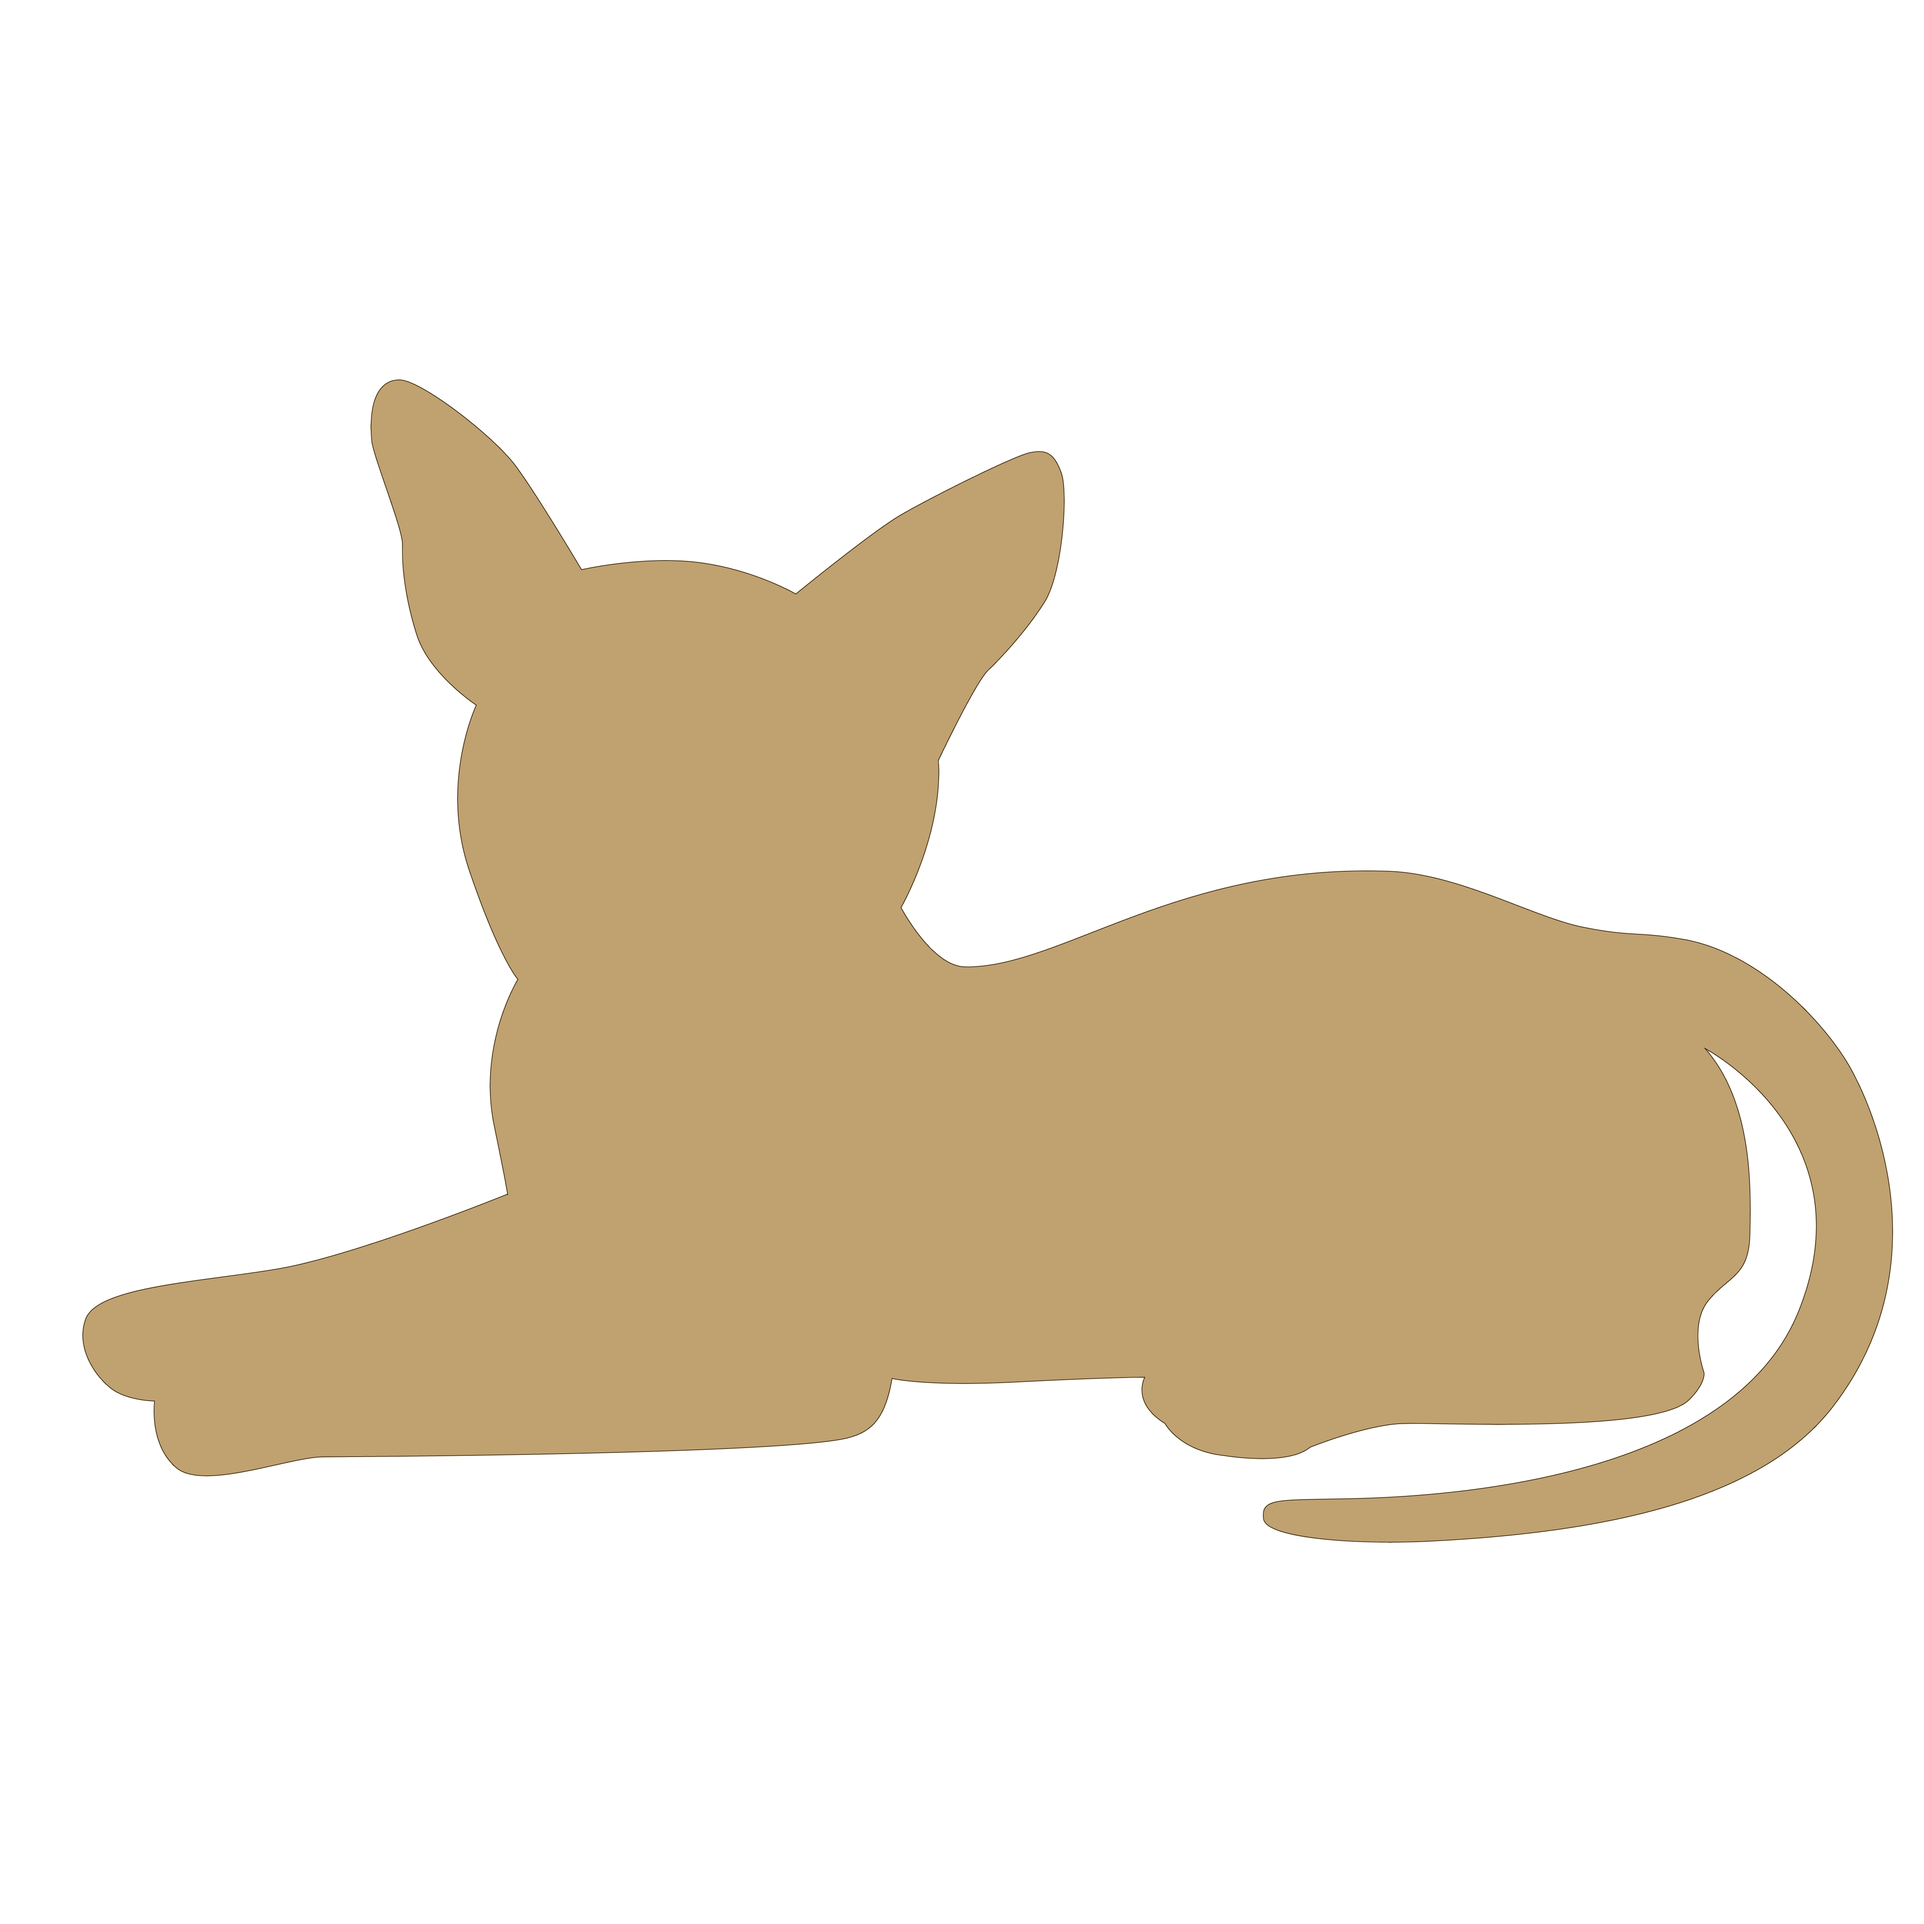
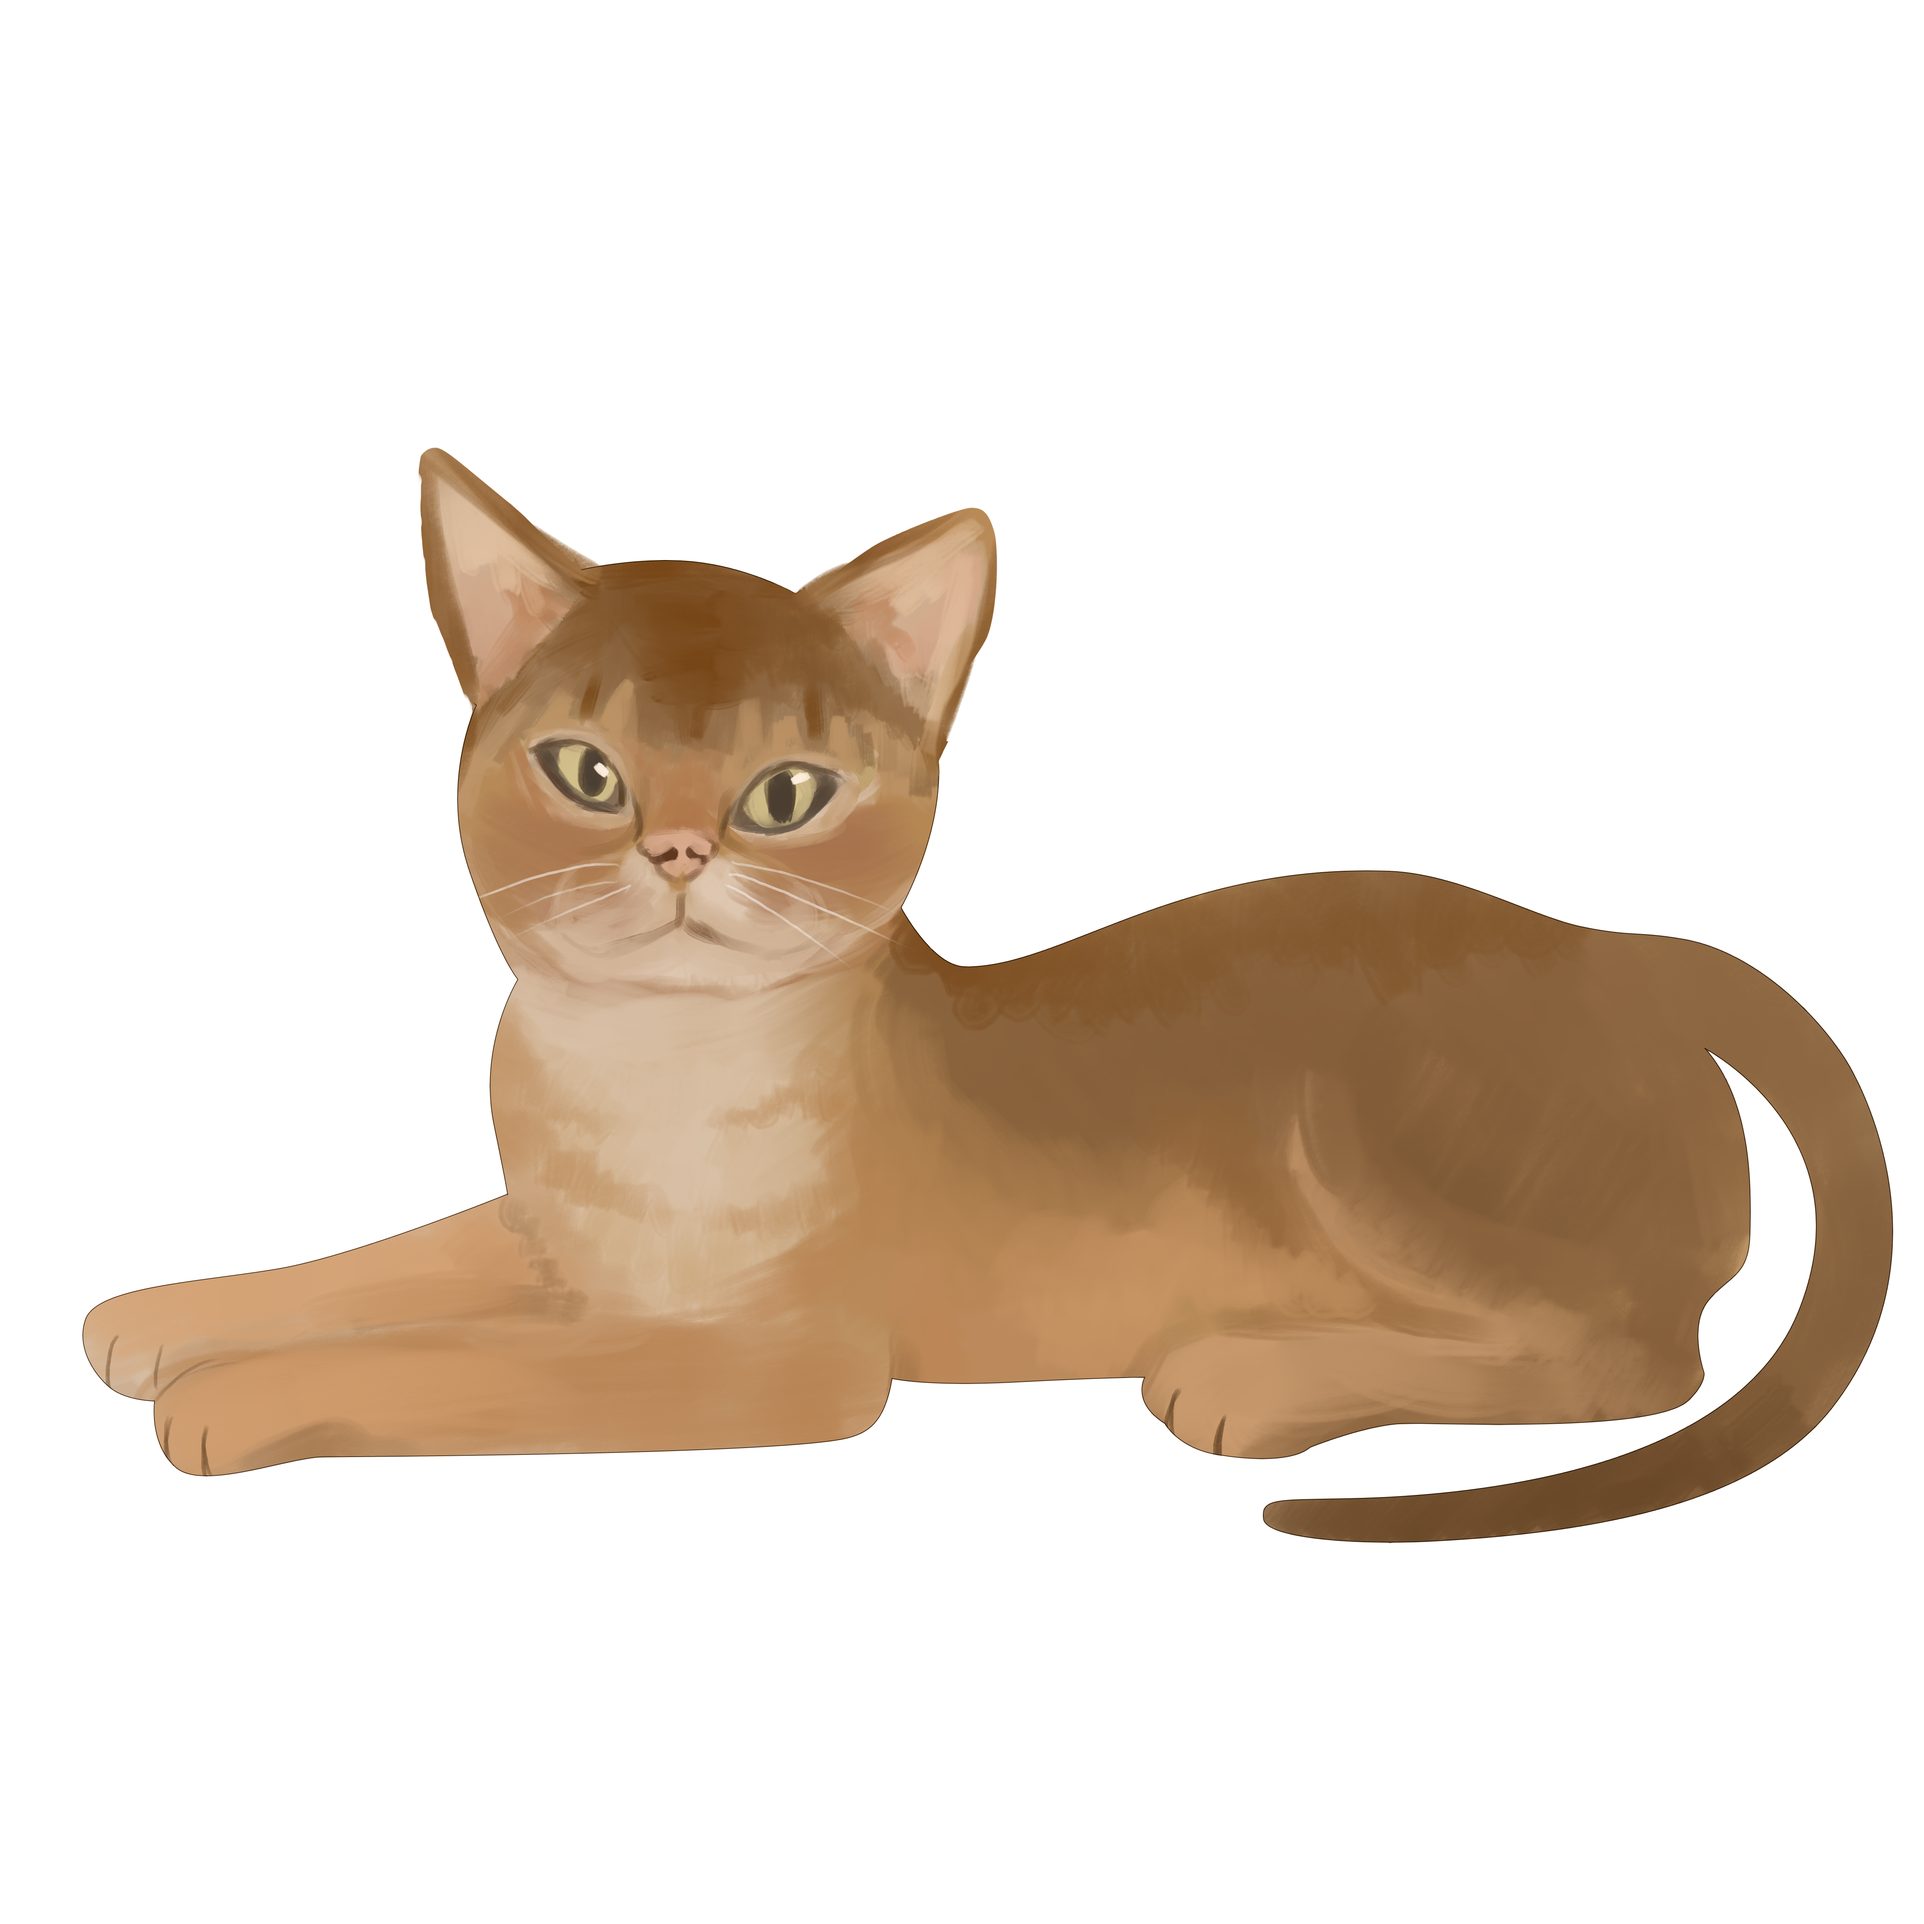
new stickers

Changed region(s): [[0.1866, 0.1866, 0.9953, 0.8087], [0.1244, 0.7154, 0.1866, 0.7776], [0.0311, 0.6843, 0.0933, 0.7465]]

diff --git a/apps/web/src/lib/stickerComposer.js b/apps/web/src/lib/stickerComposer.js
@@ -77,6 +77,6 @@ export function selectStickerAsset(breed, attributes = {}) {
 }
 
 export function composeStickerImage(breed, attributes = {}) {
-  const asset = selectStickerAsset(breed, attributes);
-  return `${ASSET_BASE}${asset.fileName}`;
+  const assetUrl = `${ASSET_BASE}${selectStickerAsset(breed, attributes).fileName}`;
+  return assetUrl;
 }

diff --git a/apps/web/src/lib/cv/inference.js b/apps/web/src/lib/cv/inference.js
@@ -178,6 +178,7 @@ export async function runPetInference(imageElement) {
 
     const computedAttributes = {
       furColor: fallback.furColor,
+      petBox: overallBox,
       earStyle,
       faceShape,
       petType,
